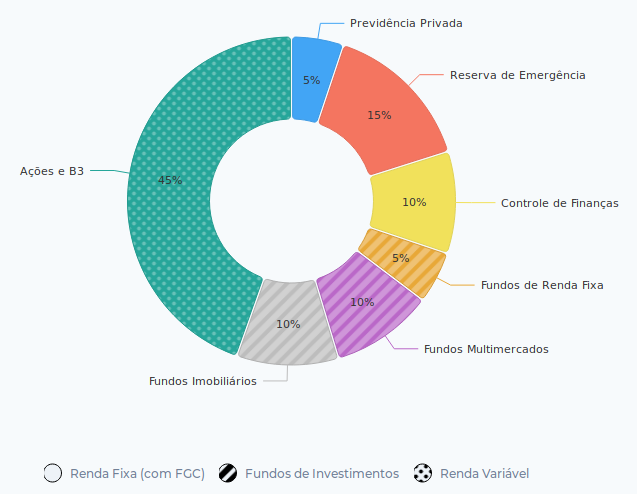
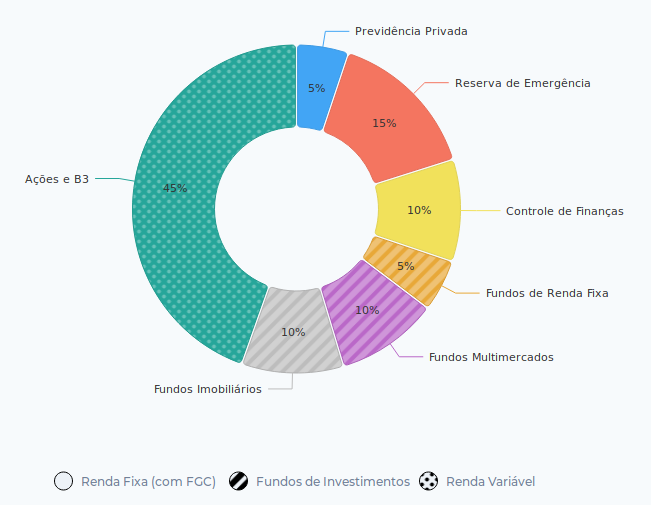
ajustes e melhorias

diff --git a/src/components/quiz-result/QuizResult.js b/src/components/quiz-result/QuizResult.js
@@ -39,22 +39,25 @@ export default function Result() {
     return 'agressive';
   }
 
-  const investorProfileLabel = getInvestorProfileLabel();
+  const investorProfile = getInvestorProfileLabel();
 
   React.useEffect(() => {
     async function triggerEmailSending() {
       try {
-        const res = await fetch('http://localhost:3000/send-email', {
-          method: 'POST',
-          headers: {
-            'Content-Type': 'application/json',
+        const res = await fetch(
+          'http://192.168.15.7:3000/send-email',
+          {
+            method: 'POST',
+            headers: {
+              'Content-Type': 'application/json',
+            },
+            body: JSON.stringify({
+              name,
+              email,
+              investorProfile,
+            }),
           },
-          body: JSON.stringify({
-            name,
-            email,
-            investorProfileLabel,
-          }),
-        });
+        );
 
         await res.json();
       } catch (error) {
@@ -67,7 +70,7 @@ export default function Result() {
     if (!emailSent) {
       triggerEmailSending();
     }
-  }, [emailSent, email, name, investorProfileLabel]);
+  }, [emailSent, email, name, investorProfile]);
 
   function retakeQuiz() {
     Router.push('/dados-iniciais');
@@ -87,7 +90,7 @@ export default function Result() {
           <p className="text-gray-900">
             Seu perfil de investidor é
             {(() => {
-              switch (investorProfileLabel) {
+              switch (investorProfile) {
                 case 'conservative':
                   return ' Conservador';
                 case 'moderate':
@@ -103,11 +106,11 @@ export default function Result() {
             <Box className="font-bold text-xl mb-2 text-gray-900">
               Descrição do seu perfil
             </Box>
-            {investorProfileLabel === 'conservative' ? (
+            {investorProfile === 'conservative' ? (
               <p className="text-gray-700 text-base">
                 {investorProfileDescription.conservative}
               </p>
-            ) : investorProfileLabel === 'moderate' ? (
+            ) : investorProfile === 'moderate' ? (
               <p className="text-gray-700 text-base">
                 {investorProfileDescription.moderate}
               </p>
@@ -124,11 +127,11 @@ export default function Result() {
               Carteira de investimentos sugerida
             </Box>
             <Box className="p-4 w-192 h-120 m-auto">
-              {investorProfileLabel === 'conservative' ? (
+              {investorProfile === 'conservative' ? (
                 <ResultChart
                   profileData={CONSERVATIVE_PROFILE_DATA}
                 />
-              ) : investorProfileLabel === 'moderate' ? (
+              ) : investorProfile === 'moderate' ? (
                 <ResultChart profileData={MODERATE_PROFILE_DATA} />
               ) : (
                 <ResultChart profileData={AGRESSIVE_PROFILE_DATA} />
@@ -137,7 +140,7 @@ export default function Result() {
             <Box className="flex justify-center">
               <Legends
                 showCircleWithDots={
-                  !(investorProfileLabel === 'conservative')
+                  !(investorProfile === 'conservative')
                 }
               />
             </Box>

diff --git a/src/server/index.js b/src/server/index.js
@@ -2,13 +2,37 @@ const express = require('express');
 const next = require('next');
 const bodyParser = require('body-parser');
 const Mail = require('../services/mail');
-const investorProfileDescription = require('../../public/static/investor-profile-description.json');
+const profileDescription = require('../../public/static/investor-profile-description.json');
 
+const IMAGES_BASE_URL =
+  'https://my-investiment-portfolio.pauloh1288.now.sh/static/images';
 const dev = process.env.NODE_ENV !== 'production';
 const nextApp = next({ dev });
 const handle = nextApp.getRequestHandler();
 
 const port = 3000;
+
+function getInvestorProfileLabel(investorProfileLabel) {
+  switch (investorProfileLabel) {
+    case 'conservative':
+      return 'Conservador';
+    case 'moderate':
+      return 'Moderado';
+    default:
+      return 'Agressivo';
+  }
+}
+
+function getChartImageUrl(investorProfileLabel) {
+  switch (investorProfileLabel) {
+    case 'conservative':
+      return `${IMAGES_BASE_URL}/email-conservative-profile-chart.png`;
+    case 'moderate':
+      return `${IMAGES_BASE_URL}/email-moderate-profile-chart.png`;
+    default:
+      return `${IMAGES_BASE_URL}/email-agressive-profile-chart.png`;
+  }
+}
 
 nextApp.prepare().then(() => {
   const app = express();
@@ -18,28 +42,22 @@ nextApp.prepare().then(() => {
 
   app.post('/send-email', async (req, res) => {
     try {
-      if (dev) {
-        const { name, email, investorProfileLabel } = req.body;
+      const { name, email, investorProfile } = req.body;
 
-        await Mail.sendMail({
-          from:
-            '"Minha Carteira de Investimentos" <minha.carteira.de.investimentos@gmail.com>',
-          to: email,
-          subject: 'Aqui está o seu perfil de investidor',
-          template: 'quiz-result',
-          context: {
-            name,
-            profile:
-              investorProfileLabel === 'conservative'
-                ? 'Conservador'
-                : investorProfileLabel === 'moderate'
-                ? 'Moderado'
-                : 'Agressivo',
-            description:
-              investorProfileDescription[investorProfileLabel],
-          },
-        });
-      }
+      await Mail.sendMail({
+        from:
+          '"Minha Carteira de Investimentos" <minhacarteiradeinvestimentos@gmail.com>',
+        to: email,
+        subject: 'Aqui está o seu perfil de investidor',
+        template: 'quiz-result',
+        context: {
+          name,
+          profile: getInvestorProfileLabel(investorProfile),
+          description: profileDescription[investorProfile],
+          chartImageUrl: getChartImageUrl(investorProfile),
+          imagesBaseUrl: IMAGES_BASE_URL,
+        },
+      });
 
       return res
         .status(200)

diff --git a/src/components/result-chart/Legends.js b/src/components/result-chart/Legends.js
@@ -5,7 +5,7 @@ import { Box } from 'reakit';
 function NormalCircle() {
   return (
     <svg height="25px" width="175px">
-      <g transform="translate(0,3)">
+      <g transform="translate(3,3)">
         <rect width="230" height="18" fill="transparent" />
         <circle
           r="9"
@@ -60,7 +60,7 @@ function CircleWithLines() {
           />
         </pattern>
       </defs>
-      <g transform="translate(0,3)">
+      <g transform="translate(3,3)">
         <rect width="230" height="18" fill="transparent" />
         <circle
           r="9"
@@ -105,7 +105,7 @@ function CircleWithDots() {
           <circle cx="7.5" cy="7.5" r="2" fill="black" />
         </pattern>
       </defs>
-      <g transform="translate(0,3)">
+      <g transform="translate(3,3)">
         <rect width="230" height="18" fill="transparent" />
         <circle
           r="9"

diff --git a/src/utils/constants.js b/src/utils/constants.js
@@ -1,4 +1,4 @@
-export const LS_USER_DATA_KEY = '__cloudbackup_user_data__';
+export const LS_USER_DATA_KEY = '__mci_user_data__';
 export const MAX_QUESTIONS = 6;
 export const FIRST_QUESTION = 0;
 export const CONSERVATIVE_PROFILE_LIMIT = 8;
